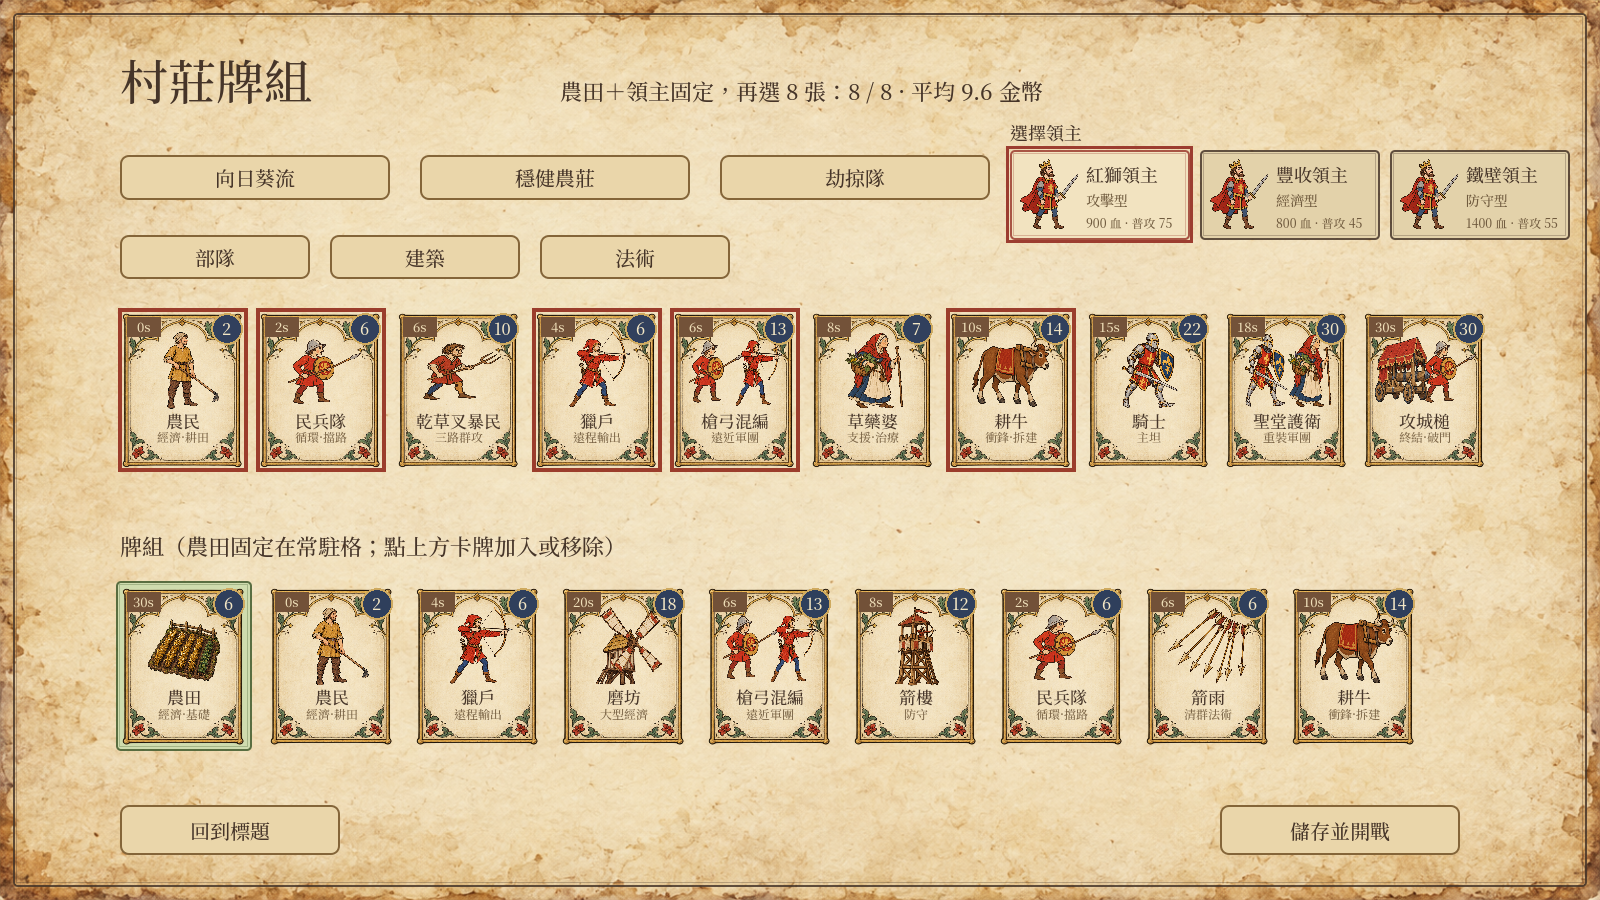
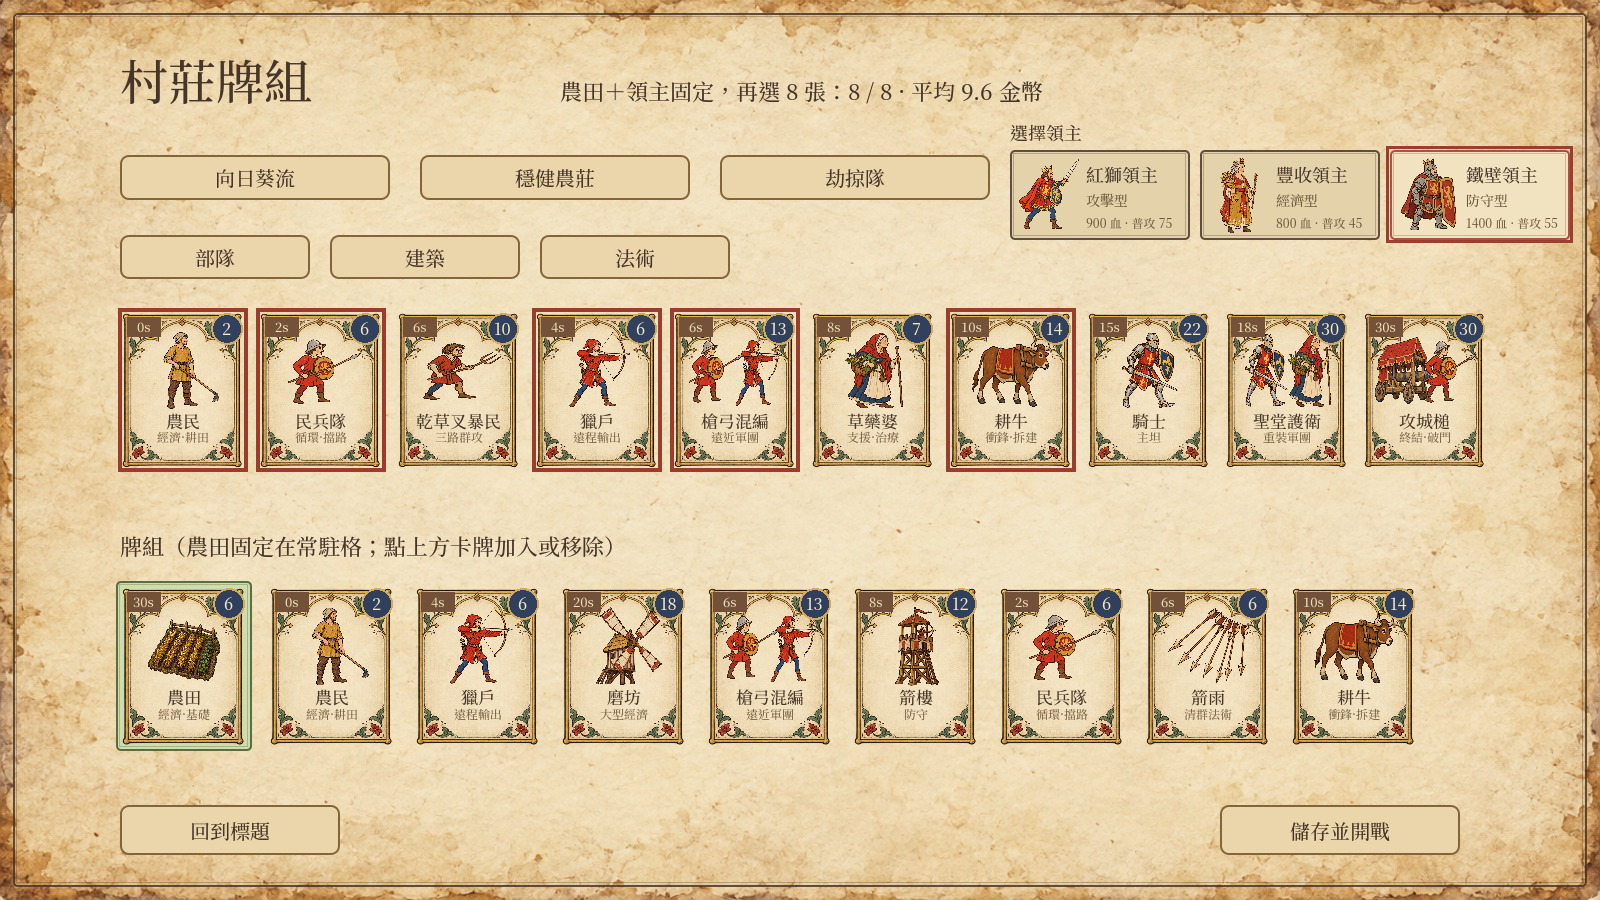
Give each lord distinct shared artwork in deck and battle views

Changed region(s): [[0.8438, 0.1556, 1.0, 0.28], [0.625, 0.1556, 0.7812, 0.28]]

diff --git a/docs/交接給Codex.md b/docs/交接給Codex.md
@@ -61,7 +61,7 @@
 
 1. **穩健農莊太弱**（問）：已試過「稻草人→槍弓混編」「鐵壁→紅獅領主」都無效。候選方案：騎士 22→18 費或冷卻 15→10 秒；或把草藥婆換成乾草叉暴民。改完跑一次模擬回報。
 2. **箭雨偏強**（問）：傷害 200→150 或費用 6→8。
-3. **三位領主共用同一張圖**：用 GPT 生成三張不同的領主立繪（同一份風格段落），存 prompt，牌組畫面與戰場依領主顯示不同圖。
+3. **已完成：三位領主獨立立繪**（Codex，2026-10-29；256 項測試通過，重拍並檢查牌組與戰場）：用 GPT 生成三張不同的領主立繪（同一份風格段落），存 prompt，牌組畫面與戰場依領主顯示不同圖。
 4. **卡牌說明文字是手寫的**（`game.gd` 的 `card_description`），數值一改就可能跟實際不符。改成由 `balance.gd` 的數值自動組出說明，並加測試確認說明裡的數字等於實際數值。
 5. **操作說明畫面**（`draw_help`）檢查文字是否超出面板、內容是否還符合目前規則（常駐農田、領主三選一、金幣）。
 6. **匯出 Windows 版**：目前沒有 `export_presets.cfg`；需要時建立 Windows 匯出設定並說明怎麼打包。
